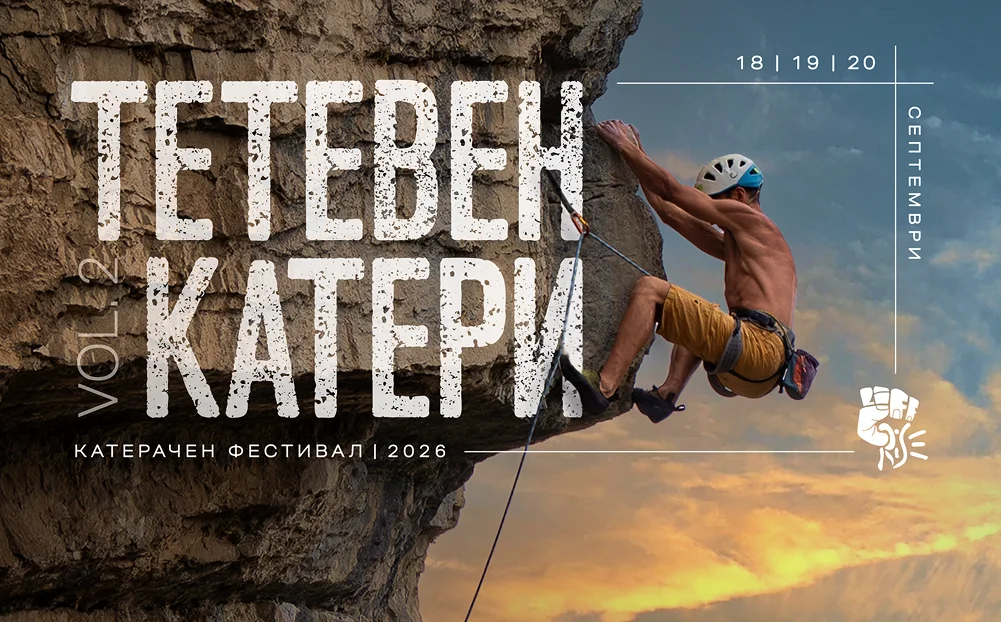
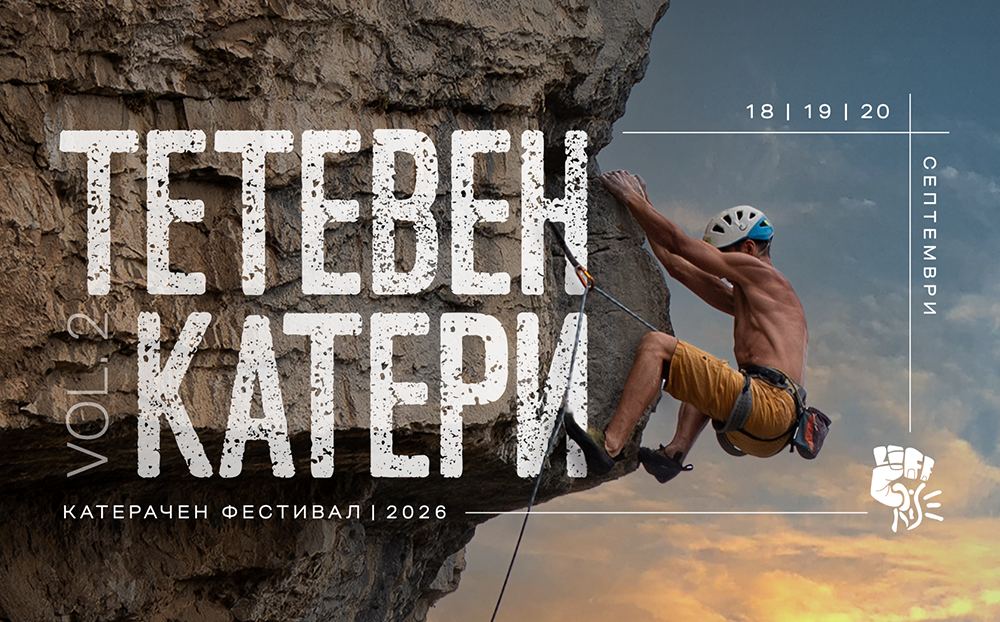
addjust events section styles

diff --git a/src/components/ui/carousel/GalleryCarousel.tsx b/src/components/ui/carousel/GalleryCarousel.tsx
@@ -54,7 +54,7 @@ export default (props: { images: string[] }) => {
             <div
               classList={{
                 'flex-[0_0_100%] px-3': true,
-                'h-[50vh] sm:h-[65vh] md:h-[80vh] lg:h-[63vh]': true,
+                'h-[50vh] sm:h-[65vh] md:h-[39vh] lg:h-[63vh]': true,
               }}
             >
               {slide.images.length === 3 ? (